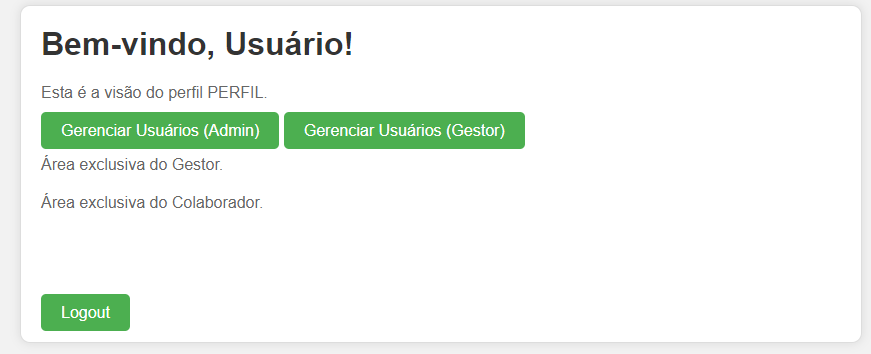
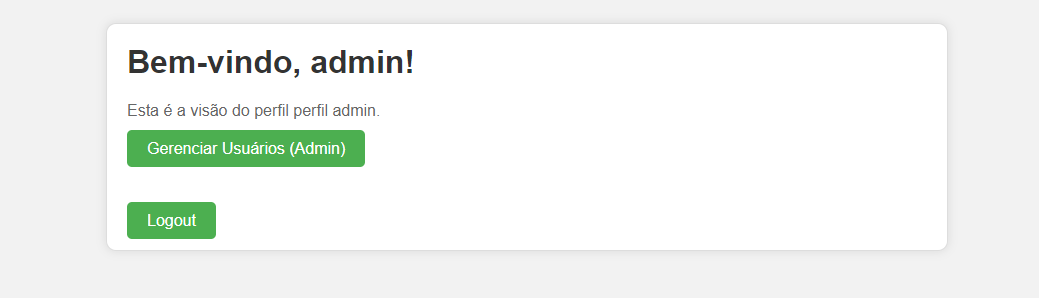
Finalizando codigo

Changed region(s): [[0.031, 0.0604, 0.899, 0.604], [0.031, 0.6644, 0.899, 0.9362]]

diff --git a/views/dashboard.php b/views/dashboard.php
@@ -63,23 +63,28 @@ a:hover {
 
 </head>
 
-<body class=""> <!-- Define a classe com base no perfil -->
+<body class="<?=$_SESSION['perfil']?>"> <!-- Define a classe com base no perfil -->
     <div class="container">
-        <h1>Bem-vindo, Usuário!</h1>
-        <p>Esta é a visão do perfil PERFIL.</p>
+        <h1>Bem-vindo, <?= $_SESSION['perfil']?>!</h1>
+        <p>Esta é a visão do perfil perfil <?= $_SESSION['perfil']?>.</p>
+       
+        <?php if ($_SESSION['perfil'] == 'admin'): ?>
             <!-- Admin pode gerenciar usuários (editar e excluir) -->
             <a href="index.php?action=list" class="btn">Gerenciar Usuários (Admin)</a>
- 
+
+        <?php elseif ($_SESSION['perfil'] == 'gestor'): ?>
             <!-- Gestor pode gerenciar usuários (apenas editar) -->
             <a href="index.php?action=list" class="btn">Gerenciar Usuários (Gestor)</a>
             <p>Área exclusiva do Gestor.</p>
- 
+            
+        <?php else: ?>    
             <p>Área exclusiva do Colaborador.</p>
+            <?php endif; ?>
  
-            <br><br><br><br>
-            <!-- Link para logout -->
-            <a href="index.php?action=logout" class="btn">Logout</a>
+        <br><br><br><br>
+        <!-- Link para logout -->
+        <a href="index.php?action=logout" class="btn">Logout</a>
     </div>
-   
+
 </body>
 </html>

diff --git a/models/user.php b/models/user.php
@@ -50,7 +50,7 @@ class User
         $stmt->execute($data);
     }
     // função para excluir o usuario da base de dados pelo ID 
-    public static function delete($id){
+    public static function delete ($id){
         $conn = Database::getConnection();
         $stmt = $conn->prepare("DELETE FROM usuarios WHERE id = :id");
         $stmt->execute(['id' => $id]);

diff --git a/views/list_users.php b/views/list_users.php
@@ -27,7 +27,7 @@
                 </tr>
             </thead>
             <tbody>
-                <?php foreach($user as $user): ?>
+                <?php foreach($users as $user): ?>
                 <tr>
                     <td> <?php $user['id'] ?> </td>
                     <td> <?php $user['nome'] ?> </td>

diff --git a/routes.php b/routes.php
@@ -25,6 +25,8 @@ switch ($action){
     case 'dashboard';
         $dashboradController->index();
         break;
+    case 'list':
+        $userController->list();
     default:
         $authController->login();
     break;

diff --git a/controllers/UserController.php b/controllers/UserController.php
@@ -21,6 +21,12 @@ class UserController
             include 'views/register.php';
         }
     }
+
+    public function list(){
+        $users = User::all();
+        include 'views/list_users.php';
+    }
+
 }
  
 ?>

diff --git a/README.md b/README.md
@@ -14,7 +14,7 @@
 
 ## Dashboard
 
-![image info](https://github.com/poxxataly26/cadlog-system/blob/main/img/Dashboard.png)
+![image info]()
 
 ## Organização, vou explicar o que cada um desses controladores a baixo.
 
